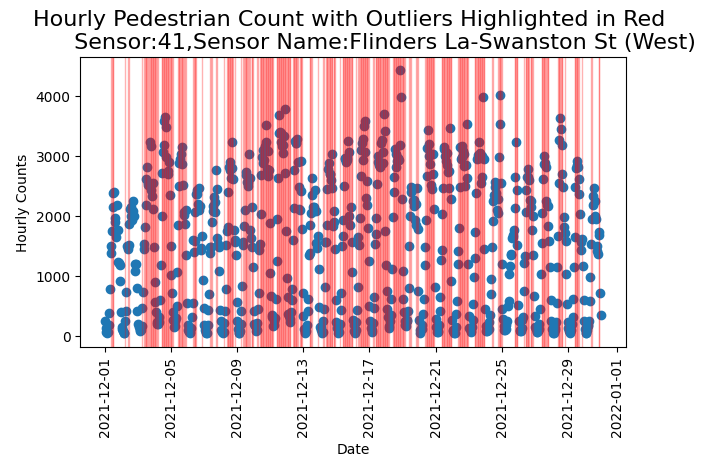
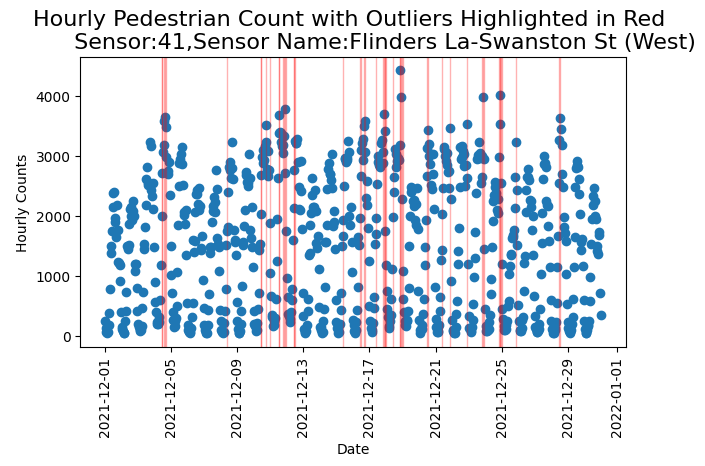
final commit

Changed region(s): [[0.156, 0.1202, 0.8738, 0.7511]]

diff --git a/solution.py b/solution.py
@@ -696,46 +696,46 @@ def join_activecases_ped(dataframe, file):
     covid_active['Date_Time'] = covid_active['Date_Time'].astype(
         'datetime64[ns]')
 
-    # join covid_active dataframe to the pedestrain data frame
-    covid_pedestrain_df = pd.merge(
+    # join covid_active dataframe to the pedestrian data frame
+    covid_pedestrian_df = pd.merge(
         df_temp, covid_active, left_on='Date_Time', right_on='Date_Time')
-    covid_pedestrain_df = covid_pedestrain_df.groupby(
-        covid_pedestrain_df.Date_Time, as_index=True).agg(
+    covid_pedestrian_df = covid_pedestrian_df.groupby(
+        covid_pedestrian_df.Date_Time, as_index=True).agg(
             {'Hourly_Counts': 'sum', 'All active cases': 'mean'})
 
     # since the data fluctuates a lot, we apply a 7 days rolling average to
     # smooth out the data
-    covid_pedestrain_df['All active cases_smoothed'] = covid_pedestrain_df[
+    covid_pedestrian_df['All active cases_smoothed'] = covid_pedestrian_df[
         'All active cases'].rolling(window=7).mean()
-    covid_pedestrain_df['Hourly_Counts_smoothed'] = \
-        covid_pedestrain_df['Hourly_Counts'].rolling(window=7).mean()
-    covid_pedestrain_df.reset_index(inplace=True)
+    covid_pedestrian_df['Hourly_Counts_smoothed'] = \
+        covid_pedestrian_df['Hourly_Counts'].rolling(window=7).mean()
+    covid_pedestrian_df.reset_index(inplace=True)
 
-    return covid_pedestrain_df
+    return covid_pedestrian_df
 
 
 def invest_activecases_ped(dataframe, file):
     """
-    Investigate relationship between pedestrain count and active covid cases
-    Take pedestrain dataframe df, active covid cases file, plot a time series
+    Investigate relationship between pedestrian count and active covid cases
+    Take pedestrian dataframe df, active covid cases file, plot a time series
     and save the time series comparison plots.
     """
     # join dataframe
-    covid_pedestrain_df = join_activecases_ped(dataframe, file)
+    covid_pedestrian_df = join_activecases_ped(dataframe, file)
 
-    # plot and save covid vs pedestrain
-    time_series_for_two(covid_pedestrain_df[pd.to_datetime(
-        covid_pedestrain_df.Date_Time) < '2021-08-01'],
+    # plot and save covid vs pedestrian
+    time_series_for_two(covid_pedestrian_df[pd.to_datetime(
+        covid_pedestrian_df.Date_Time) < '2021-08-01'],
         "All active cases_smoothed", "Hourly_Counts_smoothed",
-        'Daily active covid-19 cases', 'Daily pedestrain count',
-        "Time serie data of daily active covid-19 cases and daily " \
-        "pedestrain counts before August 2021", '1')
-    time_series_for_two(covid_pedestrain_df[pd.to_datetime(
-        covid_pedestrain_df.Date_Time) >= '2021-08-01'],
+        'Daily active covid-19 cases', 'Daily pedestrian counts',
+        "Time series plot of daily active covid-19 cases and daily " \
+        "pedestrian counts before August 2021", '1')
+    time_series_for_two(covid_pedestrian_df[pd.to_datetime(
+        covid_pedestrian_df.Date_Time) >= '2021-08-01'],
         "All active cases_smoothed", "Hourly_Counts_smoothed",
-        'Daily active covid-19 cases', 'Daily pedestrain count',
-        "Time serie data of daily active covid-19 cases and daily " \
-        "pedestrain counts after August 2021", '2')
+        'Daily active covid-19 cases', 'Daily pedestrian counts',
+        "Time series plot of daily active covid-19 cases and daily " \
+        "pedestrian counts after August 2021", '2')
 
 
 def invest_travel(dataframe, file):
@@ -751,8 +751,8 @@ def invest_travel(dataframe, file):
     # plot and save arrival vs pedestrian
     time_series_for_two(
         monthly_overall, "Arrival", "Hourly_Counts",
-        'Internation arrival monthly', 'Daily pedestrian count',
-        "Time serie data of monthly " \
+        'Monthly international arrivals', 'Daily pedestrian counts',
+        "Time series plot of monthly " \
         "international arrivals and average pedestrian counts")
 
 
@@ -827,7 +827,7 @@ def invest_lockdown(dataframe):
     # plot the time series plot
     df_time_series.plot(
         x="Date_Time", y="Hourly_Counts",
-        title="Time series plot of daily pedestrain counts" \
+        title="Time series plot of daily pedestrian counts" \
         " (Red = Victoria under lockdown)", figsize=(12, 5))
     plt.axvspan('2021-02-12', '2021-02-17', facecolor='r', alpha=0.3)
     plt.axvspan('2021-05-27', '2021-06-10', facecolor='r', alpha=0.3)
@@ -848,7 +848,7 @@ def local_anomaly(dataframe, start_date, end_date="2022-05-31"):
         (dataframe["Date_Time"] <= end_date)]
 
     df_year["Outlier"] = 0
-    bounds = find_bounds(df_year, siglevel=0.99)
+    bounds = find_bounds(df_year, siglevel=0.999)
     df_year = df_year.merge(bounds, how="inner", on=["Sensor_ID", "Time"])
     df_year.loc[
         (df_year["Hourly_Counts"] > df_year["Upper_Bound"]), "Outlier"] = 1
@@ -860,5 +860,4 @@ def local_anomaly(dataframe, start_date, end_date="2022-05-31"):
     if(start_date == "2021-01-01" and end_date == "2021-12-31"):
         plot_unusual(df_year=df_year, month="December", sensor=41)
     elif start_date == "2022-01-01":
-        plot_unusual(df_year=df_year, month="April", sensor=3)
-        plot_unusual(df_year=df_year, month="April", sensor=4)
+        plot_unusual(df_year=df_year, month="March", sensor=29)
